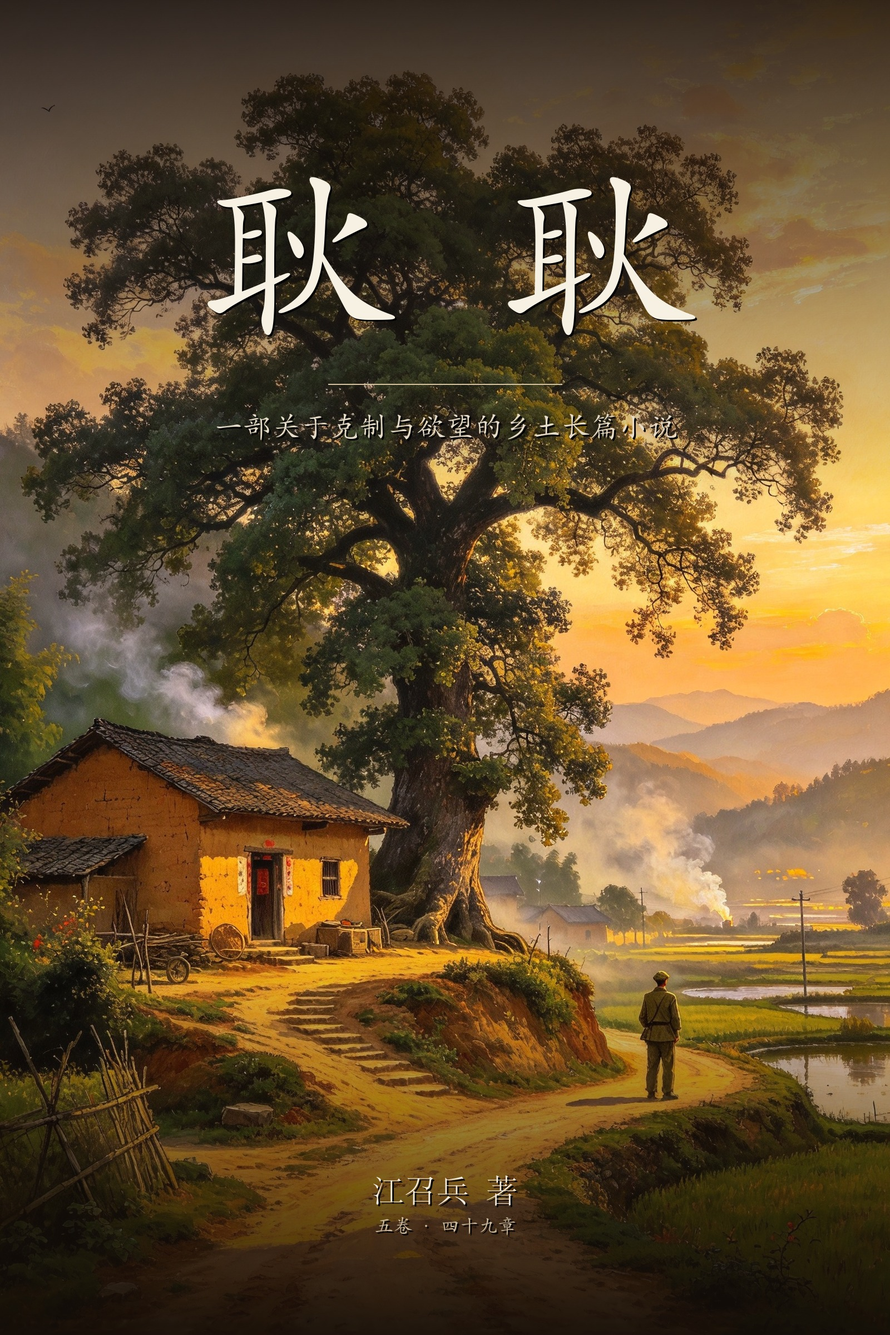
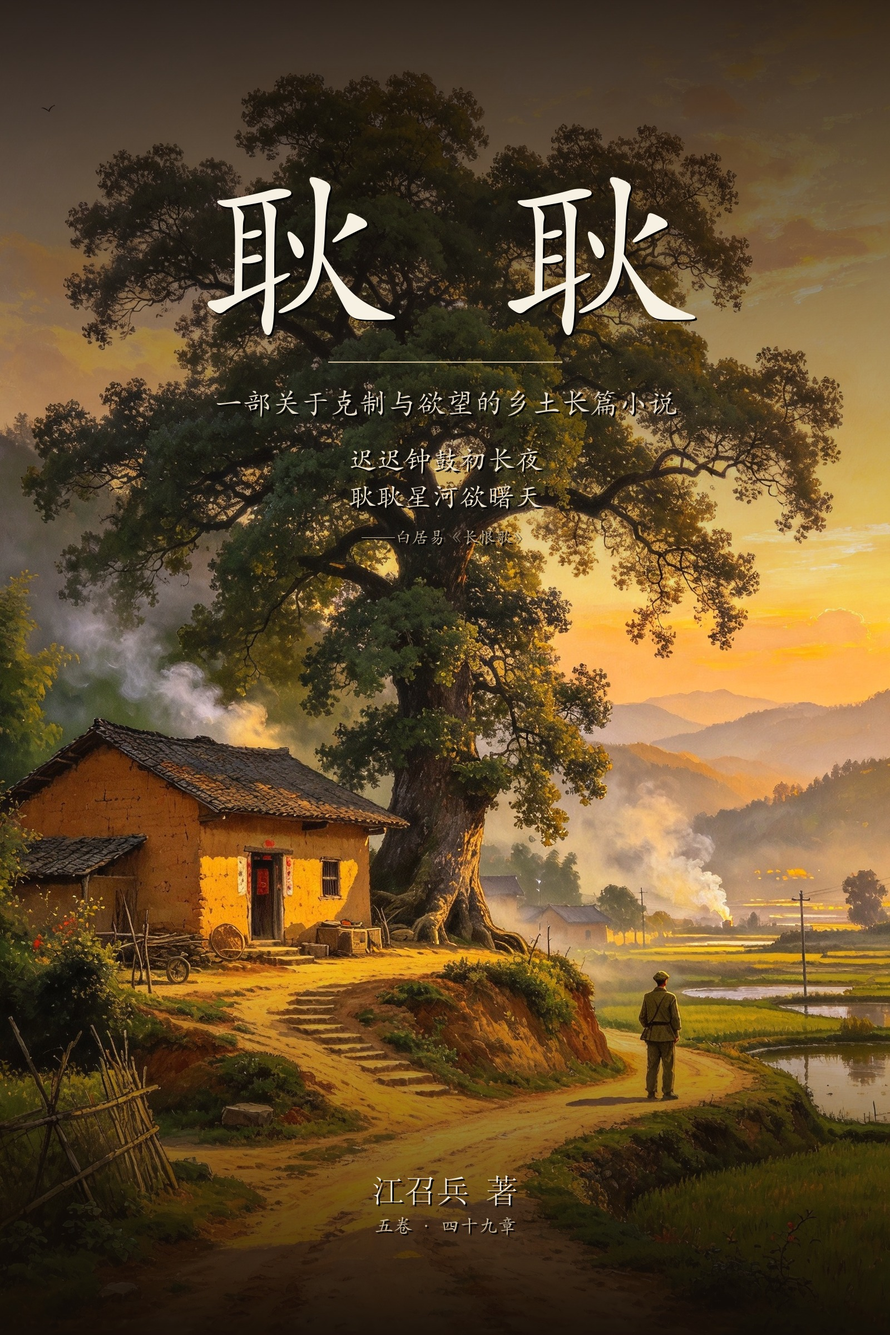
Genggeng cover: add title-source couplet (迟迟钟鼓初长夜，耿耿星河欲曙天)

diff --git a/books/genggeng/index.html b/books/genggeng/index.html
@@ -17,7 +17,7 @@
 <meta property="og:url" content="https://ZhaobingJiang.github.io/books/genggeng/">
 <meta property="og:title" content="耿耿 · 长篇小说">
 <meta property="og:description" content="湘中少年陈禾生的一生。五卷四十九章，约三十万字，全书完。">
-<meta property="og:image" content="https://ZhaobingJiang.github.io/books/genggeng/cover.jpg">
+<meta property="og:image" content="https://ZhaobingJiang.github.io/books/genggeng/cover.jpg?v=3">
 <meta name="twitter:card" content="summary_large_image">
 <script type="application/ld+json">
 {"@context":"https://schema.org","@graph":[
@@ -67,7 +67,7 @@
 
 <main class="landing">
   <section class="book-hero">
-    <img class="cover" src="cover.jpg" alt="《耿耿》封面：江召兵著，长篇小说，一部关于克制与欲望的乡土长篇小说" width="1600" height="2400">
+    <img class="cover" src="cover.jpg?v=3" alt="《耿耿》封面：江召兵著，长篇小说，一部关于克制与欲望的乡土长篇小说" width="1600" height="2400">
     <div>
       <h1>耿耿</h1>
       <p class="sub">一部关于克制与欲望的乡土长篇小说</p>
@@ -91,6 +91,7 @@
   <div class="facts">
     <div><b>书名</b>《耿耿》</div>
     <div><b>副题</b>一部关于克制与欲望的乡土长篇小说</div>
+    <div><b>书名由来</b>白居易《长恨歌》：“迟迟钟鼓初长夜，耿耿星河欲曙天。”</div>
     <div><b>作者</b>江召兵</div>
     <div><b>体裁</b>长篇小说</div>
     <div><b>时间</b>1976—2031</div>

diff --git a/zh/books.html b/zh/books.html
@@ -633,7 +633,7 @@
 
         <article class="book-card" id="book-17">
           <figure class="book-figure">
-            <img src="../books/genggeng/cover-card.jpg" alt="《耿耿》封面" width="800" height="1200">
+            <img src="../books/genggeng/cover-card.jpg?v=2" alt="《耿耿》封面" width="800" height="1200">
             <figcaption>2026 · 长篇小说 · 五卷四十九章 · 约三十万字</figcaption>
           </figure>
           <div class="book-body">

diff --git a/books/index.html b/books/index.html
@@ -633,7 +633,7 @@
 
         <article class="book-card" id="book-17">
           <figure class="book-figure">
-            <img src="./genggeng/cover-card.jpg" alt="Cover of Genggeng: A Novel" width="800" height="1200">
+            <img src="./genggeng/cover-card.jpg?v=2" alt="Cover of Genggeng: A Novel" width="800" height="1200">
             <figcaption>Complete &middot; Five volumes, forty-nine chapters</figcaption>
           </figure>
           <div class="book-body">

diff --git a/books/genggeng/read.html b/books/genggeng/read.html
@@ -52,7 +52,7 @@
 
 <main class="reader">
   <section class="book-head">
-    <img class="web-cover" src="cover.jpg" alt="《耿耿》封面">
+    <img class="web-cover" src="cover.jpg?v=3" alt="《耿耿》封面">
     <h1 class="t">耿耿</h1>
     <p class="s">一部关于克制与欲望的乡土长篇小说</p>
     <p class="a">江召兵 著 · 五卷四十九章 · 全书约三十万字</p>
